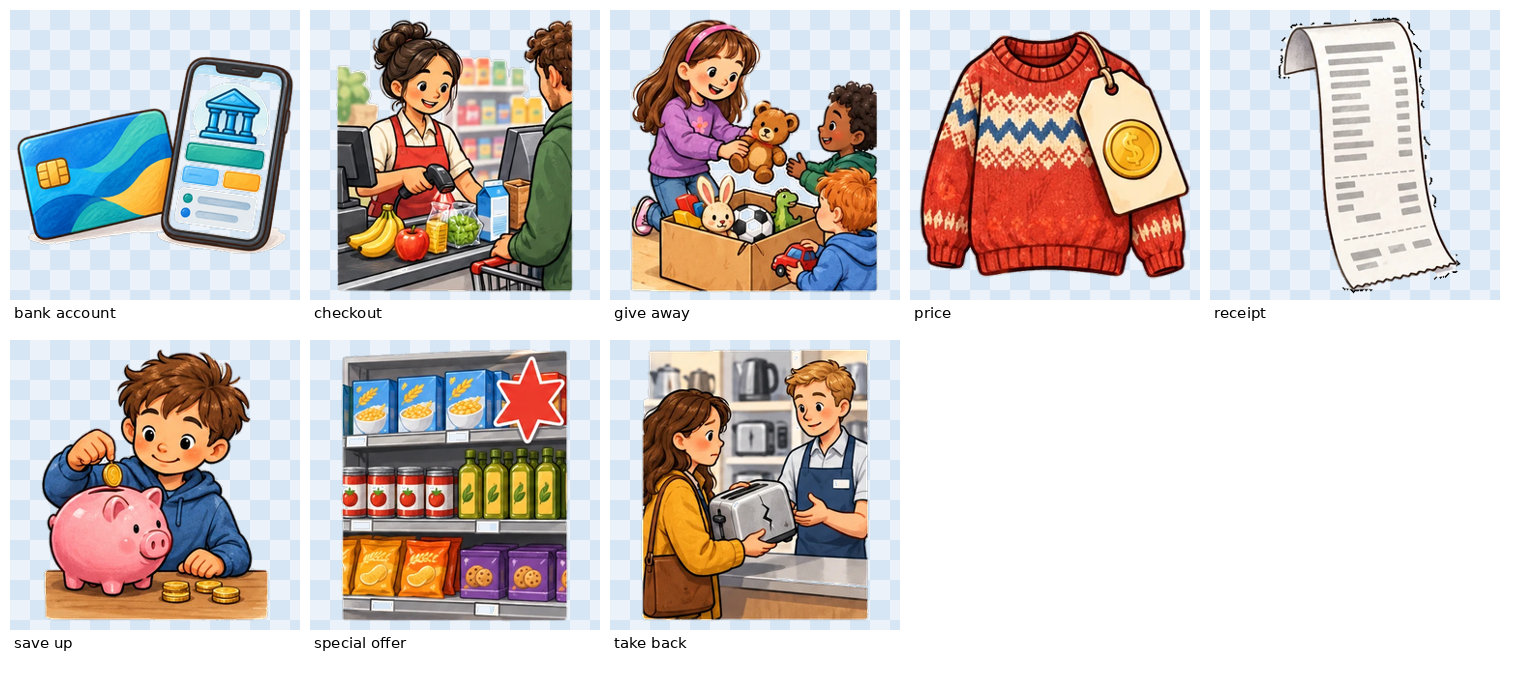
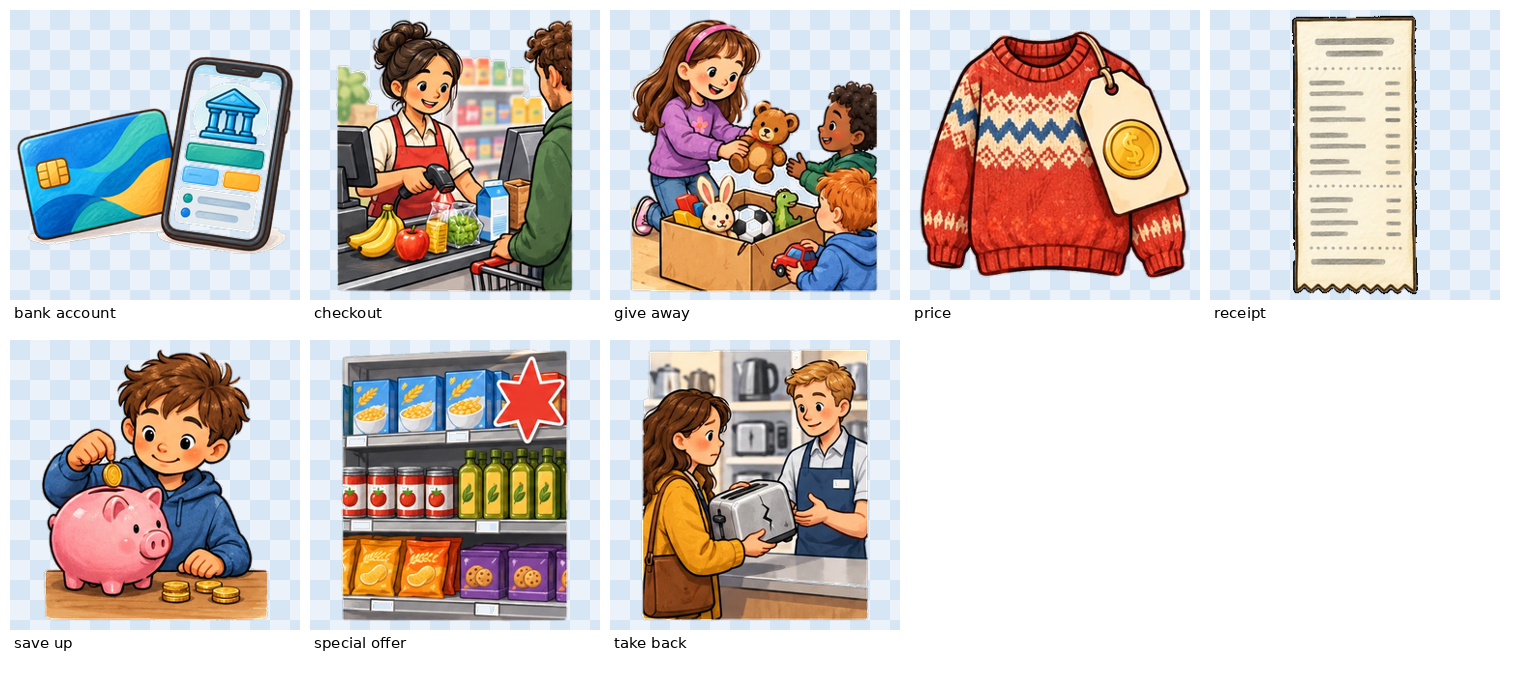
Тренажёр: Prepare 4, перерисованный receipt; замены отдельными картинками применяются при перенарезке
Claude-Session: https://claude.ai/code/session_01TVzVUEdGkYTyD8nN3ioNLY

Changed region(s): [[0.8349, 0.0, 0.9586, 0.4324]]

diff --git a/tools/vocab-images/p4/cut.py b/tools/vocab-images/p4/cut.py
@@ -13,6 +13,8 @@ from sheets import S
 FILL = {'ice hockey', 'ice skating', 'boarding pass', 'speed limit', 'receipt'}
 
 # Листы, где генератор разложил картинки иначе, чем в промпте
+IMAGES = '/tmp/claude-0/-home-user-classroom/d4a2a0a4-519c-5b81-af84-18451bfcf9dd/images'
+
 LAYOUT_SHEET = {25: [5, 4, 2]}
 
 LAYOUT = {7: [4, 3], 8: [4, 4], 9: [5, 4], 10: [5, 5], 11: [4, 4, 3], 12: [4, 4, 4], 13: [5, 4, 4]}
@@ -123,6 +125,16 @@ def cut(sheet, path, out='out'):
             cuts, ink = column_cuts(path, y0, y1, n)
             row_x(path, y0, y1, words, d, cuts)
             report.append(f'  ряд {y0}-{y1}: {n} шт, ПО КОЛОНКАМ {cuts} чернил {ink}')
+    # перерисованные отдельными картинками — images_map.txt: "<картинка> <лист>:<слово>"
+    imgdir = os.path.dirname(path) if 'clean_' not in path else IMAGES
+    for line in open(os.path.join(os.path.dirname(os.path.abspath(__file__)), 'images_map.txt')):
+        f, _, rest = line.strip().partition(' ')
+        if ':' in rest and int(rest.split(':')[0]) == sheet:
+            word = rest.split(':', 1)[1]; src = os.path.join(IMAGES, f + '.webp')
+            from widen import row as wrow
+            y0, y1 = bands(src)[0]
+            wrow(src, y0, y1, [word], f'{out}/{sheet}', gap=400, min_area=150)
+            report.append(f'  {word}: заменён картинкой {f}')
     for _, t, _ in items:
         if t in OUTLINE_ONLY:
             outline_only(f'{out}/{sheet}/{fname(t)}'); report.append(f'  {t}: по контуру')
